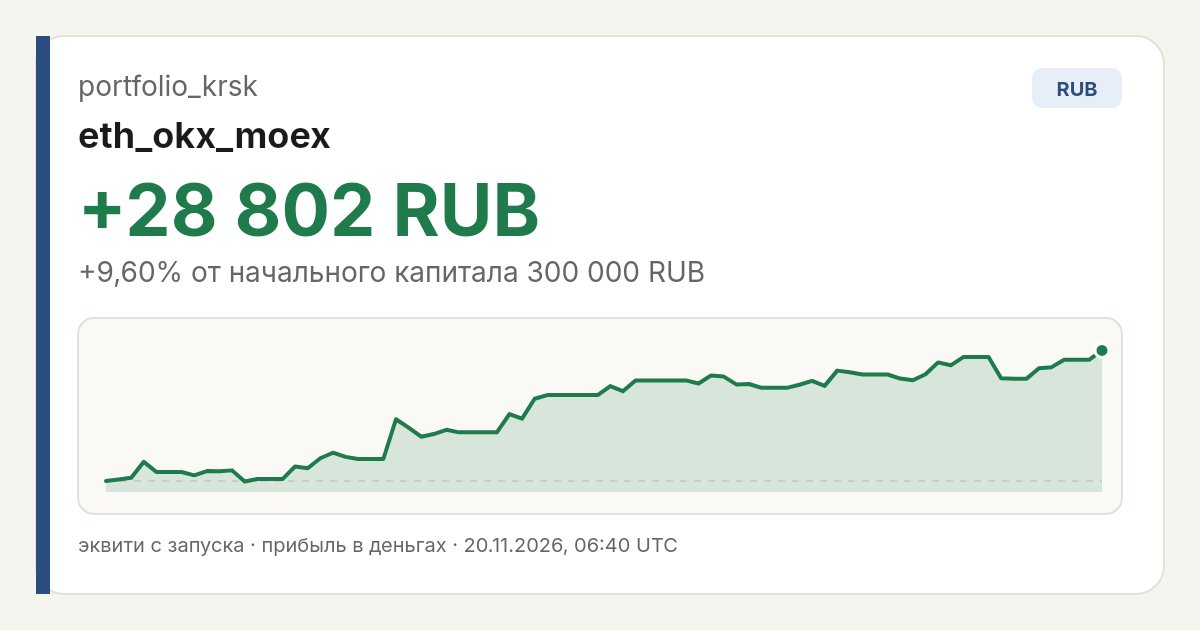
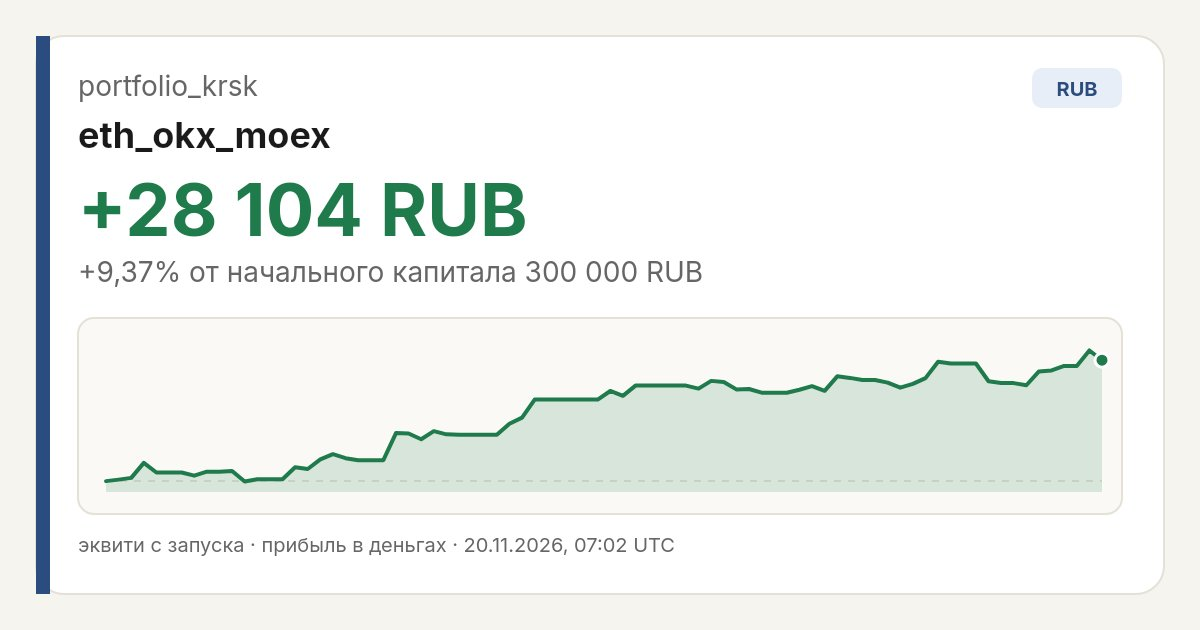
sync equity data 2026-11-20T07:02:41Z

diff --git a/share.html b/share.html
@@ -4,23 +4,23 @@
     <meta charset="UTF-8" />
     <meta name="viewport" content="width=device-width, initial-scale=1.0" />
     <title>portfolio_krsk - eth_okx_moex</title>
-    <meta name="description" content="eth_okx_moex: +28 802 RUB (+9,60%) с запуска. Лидер обложки выбран по доходности в процентах от начального капитала; суммы в разных валютах не сравниваются." />
+    <meta name="description" content="eth_okx_moex: +28 104 RUB (+9,37%) с запуска. Лидер обложки выбран по доходности в процентах от начального капитала; суммы в разных валютах не сравниваются." />
     <meta property="og:title" content="portfolio_krsk - eth_okx_moex" />
-    <meta property="og:description" content="eth_okx_moex: +28 802 RUB (+9,60%) с запуска. Лидер обложки выбран по доходности в процентах от начального капитала; суммы в разных валютах не сравниваются." />
+    <meta property="og:description" content="eth_okx_moex: +28 104 RUB (+9,37%) с запуска. Лидер обложки выбран по доходности в процентах от начального капитала; суммы в разных валютах не сравниваются." />
     <meta property="og:url" content="https://portfolio-krsk.vercel.app/" />
     <meta property="og:site_name" content="portfolio_krsk" />
     <meta property="og:locale" content="ru_RU" />
     <meta property="og:type" content="website" />
-    <meta property="og:image" content="https://varshavskiy1-beep.github.io/portfolio-krsk/og-cover.jpg?v=202611200640" />
-    <meta property="og:image:secure_url" content="https://varshavskiy1-beep.github.io/portfolio-krsk/og-cover.jpg?v=202611200640" />
+    <meta property="og:image" content="https://varshavskiy1-beep.github.io/portfolio-krsk/og-cover.jpg?v=202611200702" />
+    <meta property="og:image:secure_url" content="https://varshavskiy1-beep.github.io/portfolio-krsk/og-cover.jpg?v=202611200702" />
     <meta property="og:image:type" content="image/jpeg" />
     <meta property="og:image:width" content="1200" />
     <meta property="og:image:height" content="630" />
-    <link rel="image_src" href="https://varshavskiy1-beep.github.io/portfolio-krsk/og-cover.jpg?v=202611200640" />
+    <link rel="image_src" href="https://varshavskiy1-beep.github.io/portfolio-krsk/og-cover.jpg?v=202611200702" />
     <meta name="twitter:card" content="summary_large_image" />
     <meta name="twitter:title" content="portfolio_krsk - eth_okx_moex" />
-    <meta name="twitter:description" content="eth_okx_moex: +28 802 RUB (+9,60%) с запуска. Лидер обложки выбран по доходности в процентах от начального капитала; суммы в разных валютах не сравниваются." />
-    <meta name="twitter:image" content="https://varshavskiy1-beep.github.io/portfolio-krsk/og-cover.jpg?v=202611200640" />
+    <meta name="twitter:description" content="eth_okx_moex: +28 104 RUB (+9,37%) с запуска. Лидер обложки выбран по доходности в процентах от начального капитала; суммы в разных валютах не сравниваются." />
+    <meta name="twitter:image" content="https://varshavskiy1-beep.github.io/portfolio-krsk/og-cover.jpg?v=202611200702" />
     <meta http-equiv="refresh" content="0; url=/" />
     <script>location.replace("/")</script>
     <style>
@@ -49,9 +49,9 @@
   </head>
   <body>
     <main>
-      <img src="https://varshavskiy1-beep.github.io/portfolio-krsk/og-cover.jpg?v=202611200640" alt="portfolio_krsk - eth_okx_moex" width="1200" height="630" />
+      <img src="https://varshavskiy1-beep.github.io/portfolio-krsk/og-cover.jpg?v=202611200702" alt="portfolio_krsk - eth_okx_moex" width="1200" height="630" />
       <noscript>
-        <p>eth_okx_moex: +28 802 RUB (+9,60%) с запуска. Лидер обложки выбран по доходности в процентах от начального капитала; суммы в разных валютах не сравниваются.</p>
+        <p>eth_okx_moex: +28 104 RUB (+9,37%) с запуска. Лидер обложки выбран по доходности в процентах от начального капитала; суммы в разных валютах не сравниваются.</p>
         <p><a href="/">Открыть кабинет portfolio_krsk</a></p>
       </noscript>
     </main>
